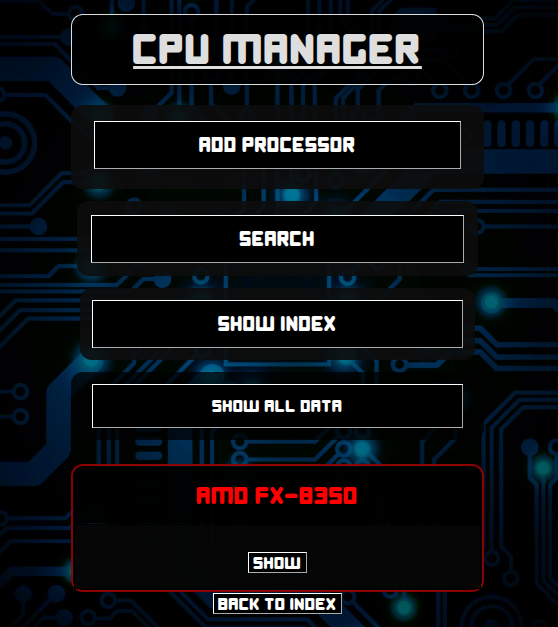
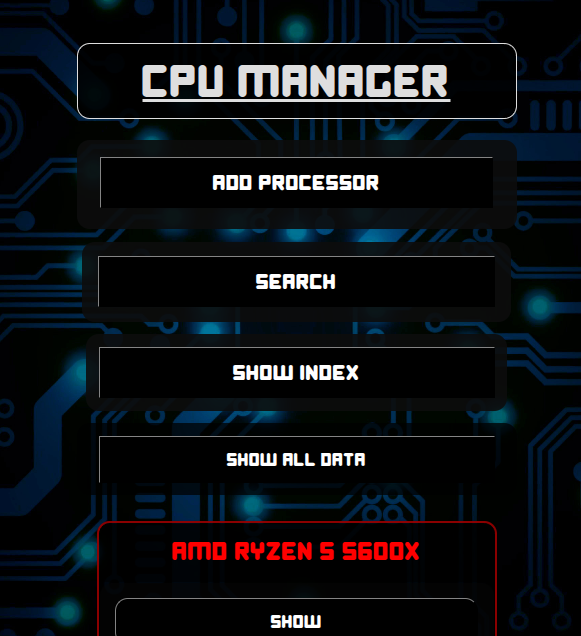
docs: add screenshots containing the most recent UI updates - Add new screenshot showing an opened data table

diff --git a/README.md b/README.md
@@ -28,7 +28,10 @@ CPUs SQL displays a list with your favorite CPUs specifications, you can add, re
 
 ### Screenshots
 
-<img src="./img/web-ui.png" alt="CPUs SQL Web UI" width="400"/>
+<div style="display: flex; gap: 1rem;">
+  <img src="./img/web-ui.png" alt="CPUs SQL Web UI" height="350"/>
+  <img src="./img/data-table.png" alt="CPU data table" height="350"/>
+</div>
 
 
 ## ENV variables
